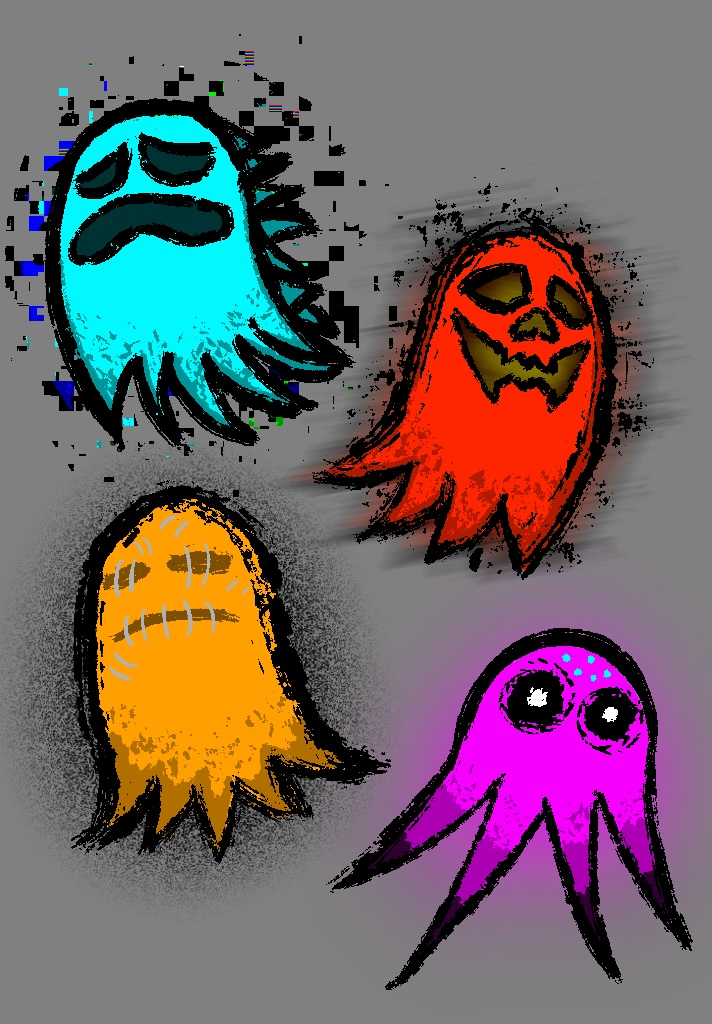
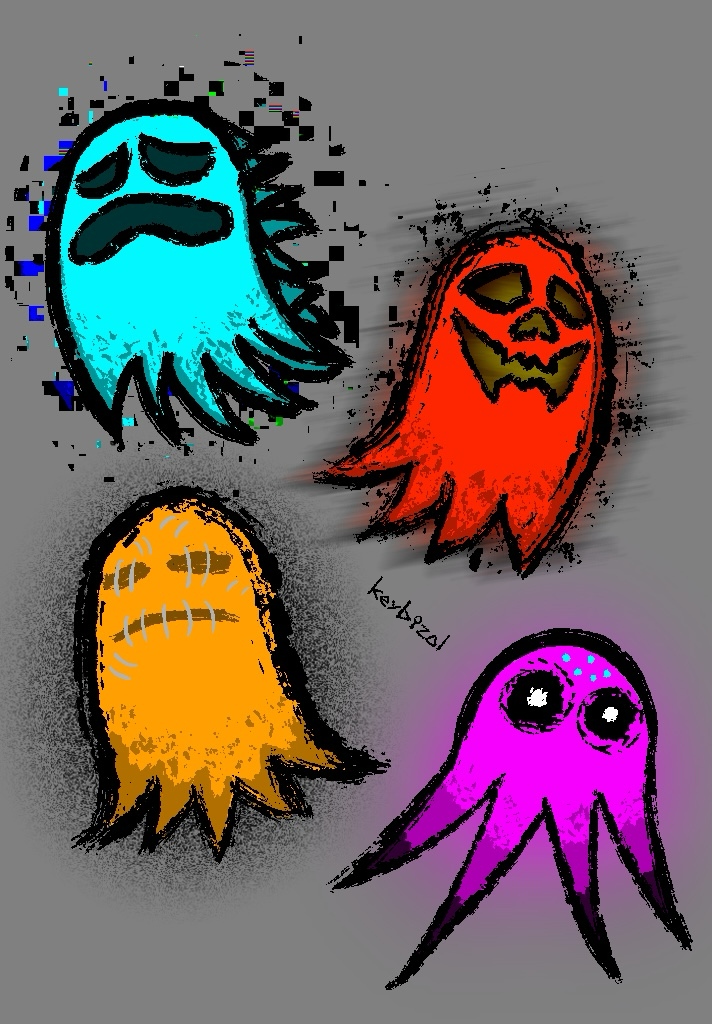
new blog post, more art, added art signatures

diff --git a/public/blog.html b/public/blog.html
@@ -54,7 +54,7 @@
                         <a href="#5">3/13/2026 - 20XX: a music odyssey</a><br>
                         <a href="#6.5">4/4/2026 - the blog that never existed</a><br>
                         <a href="#7">5/9/2026 - calculus struggles II</a><br>
-                        <a href="#8" style="color: gray;">?/??/2026 - ?</a><br>
+                        <a href="#8">8/8/2026 - drifting through summer</a><br>
                         <br>
                     </section>
 
@@ -742,9 +742,89 @@
                     <p><i>side note regarding final exams: <a href="https://en.wikipedia.org/wiki/2026_Canvas_security_incident">"something"</a> got hacked lol but my exam's weren't on any affected days..... not like it matters if you know what i mean.....</i></p>
                 </div>
                 <div id="8">
-                    <h1>?</h1>
-                    <h3>?</h3>
-                    <p>?</p>
+                    <h1>drifting through summer</h1>
+                    <br>
+                    <img src="blog_pictures/8_1_again.jpg" alt="again? (from coronation day mario rom hack)">
+                    <br>
+                    <p>Two years have passed ever since I started college. As of writing, <i>I have never worked a single job</i> in my life. Sure, I applied to jobs, but I wasn't heavily pushed to apply. Therefore, when I was denied, it was no big deal since I have a good roof and a good family. Something I know that others don't have as much and I think about this a lot. As a result, I have no work experience and I am nearly fucked in that regard, lacking in skills needed to progress further. I chose this path for two years. Whether it was a good idea or not or if I even had a choice (college gets tough + work) is besides the point. I'm worried that I haven't done anything good, meaningful, or worthwhile the entire summer. I'm just living with my parents, dwelling in my mind, and doing whatever I feel like doing if anything.</p>
+                    <br>
+                    <p><b>So what have I been doing?</b></p>
+                    <br>
+                    <h3>chores & family (guy funny) moments</h3>
+                    <p>Now I can only write/share so much about family until it crosses the line of internet safety and anonymity so I'll keep this paragraph brief. After my successful 2nd year in college, I came back home tired (I do not live near the city my college is in). My small efforts to find a job were unsuccessful. I would get requested for interviews while still in college, far away, and studying for finals. It was at that moment that my family was ok not having a summer job because of many upcoming appointments, important family gatherings, and other things. So of course I took that opportunity and was gifted the curse of unemployment and the blessing of free time.</p>
+                    <br>
+                    <p>But my parents have standards and raised me the best they could. I was allowed to be jobless under conditions that I would do anything asked of me (whole lotta chores being the obvious).</p>
+                    <br>
+                    <p>Once the summer started to set in, every day started feeling the same. I was slowly getting bored, I wasn't motivated, I couldn't focus, I would forget what I was thinking in the next second, I was still anxious all the time, etcetera etcetera. <i>It won't be until later where I revisit this.</i></p>
+                    <br>
+                    <p>Every morning I'd wake up tired, find another successful bingo on my Fox News bingo card, and then follow a spotaneous and random schedule decided in the moment for that day. If it's decided it was time to get more groceries, thats what happened. Alone in the house, take care of the dogs all day. Hasn't rained at all, time to water the plants. Lunchtime? Get food for the family. Maybe you get it, maybe you don't, but it really wasn't that bad as it should. Maybe some would kill for it. Still, I was tired and bored everyday, it'd be afternoon or evening and I would contemplate life, my choices, myself, and get sad.</p>
+                    <br>
+                    <p>Nonetheless, I wasn't completely bored though. People came over sometimes to hang and then I'd remember it's a "summer break" and I am supposed to "relax". A couple of things were occuring the beginning of June that kept me going. Not everything is listed here and not "everything" I've done is talked about.</p>
+                    <br>
+                    <ul>
+                        <li>I was asked if I wanted to play guitar again.</li>
+                        <li>The World Cup was starting soon.</li>
+                        <li>Deltarune Chapter 5 was coming out.</li>
+                        <li>The Backrooms movie was coming out (it'll make sense later).</li>
+                        <li>Happy (and sad) family events.</li>
+                        <li>Too many doctor appointments.</li>
+                    </ul>
+                    <br>
+                    <p>I might have been depressed before that but soon I would find peace in my hobbies as I finally garner the time and motivation. This was around the time of the Fifa World Cup happening. Realistically, soccer isn't that popular here but for some reason, my family loves to keep up with it and watch all the games. And so did I, it gave me something to pay attention to after completing Deltarune Chapter 5 in two days. I went through that so fast I felt nothing (well.... considering "weird route", i would be lying). Anyways, I noticed there was lots of AI used in the commercials and it always left a feeling of dread on me when I see it. Reminds me of that time where I went to go help hang up some stuff at another house and I noticed upon closer inspection it was AI art..... I'm drifting off the topic so uhhhhhh.</p>
+                    <br>
+                    <h3>the guitar calls back to me like the green goblin</h3>
+                    <p>Did you see the list? The first one. About eight years ago I think, In my parents effort to find hobbies and things I like outside of school (extra-curricular is the fancy word), I would learn guitar with one of my dad's old friend. Eventually, I would lose interest and somehow convince my parents that I was quitting (I've quit a lot of things). Looking back, I know that I had no profound interest in music (way before the events of the music blog post). NOTHING. Why would I care. But there was one important outcome, I learned the basics quicker that others. He told me that. They all told me that.</p>
+                    <br>
+                    <img src="blog_pictures/8_5_greengoblin.gif" alt="green goblin">
+                    <br>
+                    <p>Jump back to the present and I respond with a slightly not so confident "sure why not". It was once a week and it was only an hour. Amazingly, I was able to pick up back where I left off in a week or two. My guitar mentor (calling him M from now on) was genuinely surprised and it wouldn't be the first or last time. M knew I had lots of time to practice and told me from the start that you can't improve unless you practice and try. You bet your ass I was playing that shit until my fingers were peeling.</p>
+                    <br>
+                    <p>The first few songs weren't too bad and I would take home the sheets and try to play every single one every day. Eventually I got to a point where I would seek other songs to try and play, something I would have never thought or tried to do when I was younger playing guitar, where I was just there to learn and get out. If you saw my music blog post, you know how much music I have seen so far. At that time, I was finding songs in my range that I could actually play and weren't too hard. It seemed to me like some Ween songs were a good starting point. So after I played the songs I were given, I would try to play other songs I found (some unsuccessful, some easier the next time around).</p>
+                    <br>
+                    <p>I would continue doing that until it was clear that I was blowing all the easy stuff out of the water. I told M what I had been doing and he applauded me for it, he like that I was experimenting and trying new things. He then asked me to send some of the tabulature I've found and been playing. From that point forward, I was learning fast and playing many songs, some way out of my comfort zone but somehow found a way to manage. He is worried I might surpass him lol.</p>
+                    <br>
+                    <p>Of course, all of this happened in the span of the entire summer, a short amount of time. I don't have really anything else to say on this other than I am pretty good at playing the guitar, still learning but well past the beginner stage. Unfortuantely, I can't really show that off on my website because I don't know how to (without coughing up some cash for neocities). If you are curious, the songs M would have me pay range from <a href="https://www.youtube.com/watch?v=AeZRYhLDLeU">"Folsom Prison Blues"</a> to <a href="https://www.youtube.com/watch?v=mrF4nF8VUb4">"Margaritaville"</a> to <a href="https://www.youtube.com/watch?v=1vrEljMfXYo">"Take Me Home, Country Roads"</a> to <a href="https://www.youtube.com/watch?v=4gibSb1_GGw">"Sister Golden Hair"</a>. My song choices would range from <a href="https://www.youtube.com/watch?v=n5h0qHwNrHk">"Fake Plastic Trees"</a> to <a href="https://www.youtube.com/watch?v=jGSI9qoNjYk">"Mutilated Lips"</a> to <a href="https://www.youtube.com/watch?v=ImKY6TZEyrI">"Fade Into You"</a> to <a href="https://www.youtube.com/watch?v=u6-_eXmsGXg">"Holy Fucking Shit: 40,000"</a>. Some songs I choose I play alone. Okay now I want to talk about that Backrooms movie except not really.</p>
+                    <br>
+                    <h3>"this is not for you"</h3>
+                    <p>Backrooms was a good movie, lots to talk about with others. Honestly, what I'm going to talk about has little to do with the backrooms and more in line with what it remined me of, a book I haven't read until now <a href="https://en.wikipedia.org/wiki/House_of_Leaves">"<i style="color:blue">House</i> of Leaves"</a>. When I watched the backrooms movie, I have only heard of the book and never read it. Then one night, I decided that I was going to try it out. I haven't read anything in a while and the bible isn't a novel so really I haven't read a novel in a long ass time so when I told my dad about this, he was really happy about and bought the book for me in hopes that I would read again.</p>
+                    <br>
+                    <p>I was hesitant on picking this book up in particular though because of its very unconventional structure of storytelling. It was also very long and I have a long history of struggling with reading (especially with ADHD). Without saying too much, I will show you two pages to showcase what I mean.</p>
+                    <br>
+                    <img src="blog_pictures/8_2_houseofleaves.jpg" alt="two pages in house of leaves">
+                    <br>
+                    <p>No worries, the entire book <i>does not</i> look like this one image, only parts of it. However, there are some heavy vocabulary words, topics that are related and unrelated to the main subject, three narrators are talking, and reading is similar to something like a scavenger hunt. Nonetheless all the struggles, I was hooked somehow reading it. Maybe it was all the puzzles and gimmicks. Maybe it was all the underlying themes and messages. Maybe it was the story about the <i style="color:blue">house</i>. I'm not enitrely sure but I seemed to like it and wanted to keep reading and find other similar stores like it.</p>
+                    <br>
+                    <p>Right now I am reading <a href="https://en.wikipedia.org/wiki/There_Is_No_Antimemetics_Division">"There Is No Antimemetics Division"</a>, and... well... it starts out pretty strong and then the second half kills my interest and I'm still reading it even though it's shorter than <i style="color:blue">House</i> of Leaves. Maybe I might go back to <a href="https://www.youtube.com/watch?v=rZvGfsDzTfU">The Bible</a> just to get all that information no typical christian knows or cares to read about. You might be wondering, does this mean in christian though? That's complicated for me. I grew up catholic and, in my teen years, questioned the words of god and if he even was real. Today, I don't think the church would like me.... I'm going off-topic again.</p>
+                    <br>
+                    <p>Okay away from that last thing. Before I talk about my recent art adventures, all I want to say is that I have been keep up with specific webcomics, even though I wasn't a huge graphic novel reader during my teen years.... as for webcomics? uhhhh *turns around to see a <a href="https://homestuck.com/"><i style="color:green">house</i></a>* yeah lets not talk about that. So today, I keep my eyes on the following three: <a href="https://normalsville.the-comic.org/comics/1/#content-start">"Normalsville"</a>, <a href="https://www.webtoons.com/en/canvas/doghaus-/list?title_no=853933">"Doghaus"</a> (not the restaurant?), and finally <a href="https://www.boggio.net/reader/ditf">"Death In The Family"</a>. What? "Never heard of these?" good, let's keep it that way. I won't say too much on these but you can go check em out if you care/dare. The first one holds similarities to early Family Guy; the second one holds similarities to Peanuts; both the first and second one are gay furry slice of life webcomics; and the third one is based off a roblox game.</p>
+                    <br>
+                    <h3>procreation sensations</h3>
+                    <p>Out of all the things I wanted to do the most this summer was to draw. But very often, do I have the motivation to do it. Sometimes I have nothing in my head that I want or sometimes I'm scared of it. Scared about it not coming out right or it's stupidly embarrasing to me. The anxiety takes over and I have nothing for hours. That was until something was able to suppress the anxiety and increase my focus for a few hours (talked about next section). Now since that, I was able to make lots of art (good and bad) on my iPad in Procreate.</p>
+                    <br>
+                    <p>Before I had Procreate, I would use Krita, and before that was my sketchbook, and farther back was older and shittier art I don't want to talk about. I don't like the feel of drawing tablets and it took me a while to get used to it and the stuff that came from it wasn't great. I also replaced the tips very regularly and it was annoying. I did the best I though I could with Krita. At some point in Summer 2025, I got hand on an old iPad mini (6th gen?) and used it for college to survive Calculus II. Then one day, I decided to waste some cash on Procreate and draw like barely anything. When I finally got a much better iPad (not mini), I sought out to learn the tools in Procreate and just redesign my ocs again the best I could during Winter 2026 (also draw dumb shit too). That period was really trying to go from my sketchbook to Procreate instead of Krita to Procreate. I would always use a simple, fine pen brush for line art and literally everything. Never would I try to change the brush alot or use anything else to make my art look cooler.</p>
+                    <br>
+                    <p>Fast forward to the summer and now I feel like I want to try drawing again but I can't get myself too. That was until I sought more experimentation with the tools. Then I found my new favorite brush inside Procreate's wonderful garden of brushes. the Styx brush.</p>
+                    <br>
+                    <img src="blog_pictures/8_3_styx.jpg" alt="styx brush in procreate">
+                    <br>
+                    <p>Of course I would modify it a little bit since it wasn't easy to draw a closed line with it. So I use two versions of the brush to make all my latest work in Procreate. It amazing how deceptively easy and simple it is to use Procreate it's kinda crazy. My iPad makes it so much easier to make art than in Krita and that's awesome and sad in a conglomerate of ways that I don't want to get into. Anyways here's a timelapse. Unfortunately, I couldn't get any other ones in gif form. For this artwork, I hadn't used vanishing points or made a background in the longest time so ths was a little outside my confort zone. I had only been drawing humanoids. On this same Procreate project file I also did the Animal Hospital one but it's cropped out so you won't see it, and I did both in one day so that's nice.</p>
+                    <br>
+                    <img src="blog_pictures/8_4_wishyouwouldproceedtimelapse.gif" alt="timelapse">
+                    <br>
+                    <img src="artstuff/procreate/wishyouwouldproceed.png" alt="timelapse">
+                    <br>
+                    <p>So after getting comfortable with a new brush and Procreate's tools, I was able to draw semi-consistently (like at least a drawing every other day). You can see most of it now but like more than 50% of it was oc art and I am not comfortable sharing all of that. Anyways, something else also made it easier for me to make art and some other things too: <i>ADHD Medication</i>.</p>
+                    <br>
+                    <h3>before returning to college</h3>
+                    <p>You see, I have been rawdogging ADHD even since the elementary years. This was because I was an A student in school so there was nothing to worry about. When I was younger, I was diagnosed with ADHD and put on Vyvanse (it just came out and the doctors had incentives). Long story short, the effects were terrible and no one said to me or my parents that you can try other medication. So fast forward to college and now the realization is that ADHD is setting me back academically and socially. It was then I realized at some point that I remembered there was medication for ADHD and different options so I wanted to try again.</p>
+                    <br>
+                    <p>Now put on something else other than Vyvanse, the anxiety was (nearly) gone and I was able to focus and retain memory. The results were shown in conversations, in my art, and while reading. What I have yet to see is how it effects college but I am more hopeful than ever. I'm less anxious throughout the day, I don't wander around the depth of my mind like I used to, and I sleep better and dream more.</p>
+                    <br>
+                    <p><b>All of this to still say I'm jobless. <i style="color:black">but i'm still a student</i></b></p>
+                    <br>
+                    <p>I may have taken my absurd about of free time at 21 for granted, but at least I had it and did as much as I could with it. With family, with friends, with me. The present is dull. The future is bright.</p>
+                    <br>
+                    <p>See you later.</p>
                 </div>
                 <br>
                 <hr>

diff --git a/public/projects.html b/public/projects.html
@@ -318,7 +318,7 @@
 
           <div class="grid-item">
             <a href="artstuff/krobus.png" target="_blank" rel="noopener noreferrer">
-              <img src="artstuff/krobus.png">
+              <img class="top" src="artstuff/krobus.png">
             </a>
           </div>
 
@@ -336,31 +336,31 @@
 
           <div class="grid-item">
             <a href="artstuff/thesiren.png" target="_blank" rel="noopener noreferrer">
-              <img src="artstuff/thesiren.png">
+              <img class="top" src="artstuff/thesiren.png">
             </a>
           </div>
 
           <div class="grid-item">
             <a href="artstuff/nepeta.png" target="_blank" rel="noopener noreferrer">
-              <img src="artstuff/nepeta.png">
+              <img class="top" src="artstuff/nepeta.png">
             </a>
           </div>
 
           <div class="grid-item">
             <a href="artstuff/baldi.png" target="_blank" rel="noopener noreferrer">
-              <img id="baldi" src="artstuff/baldi.png">
+              <img class="contain" src="artstuff/baldi.png">
             </a>
           </div>
           
           <div class="grid-item">
             <a href="artstuff/dud.png" target="_blank" rel="noopener noreferrer">
-              <img src="artstuff/dud.png">
+              <img class="top" src="artstuff/dud.png">
             </a>
           </div>
 
           <div class="grid-item">
             <a href="artstuff/starwalker.png" target="_blank" rel="noopener noreferrer">
-              <img src="artstuff/starwalker.png">
+              <img class="right" src="artstuff/starwalker.png">
             </a>
           </div>
 
@@ -408,7 +408,7 @@
 
           <div class="grid-item">
             <a href="artstuff/lw3.png" target="_blank" rel="noopener noreferrer">
-              <img id="lw3" src="artstuff/lw3.png">
+              <img class="top"  src="artstuff/lw3.png">
             </a>
           </div>
 
@@ -633,7 +633,19 @@
 
           <div class="grid-item">
             <a href="artstuff/procreate/trollmonocle.png" target="_blank" rel="noopener noreferrer">
-              <img src="artstuff/procreate/trollmonocle.png">
+              <img class="top" src="artstuff/procreate/trollmonocle.png">
+            </a>
+          </div>
+
+          <div class="grid-item">
+            <a href="artstuff/procreate/oc_4.png" target="_blank" rel="noopener noreferrer">
+              <img class="top" src="artstuff/procreate/oc_4.png">
+            </a>
+          </div>
+
+          <div class="grid-item">
+            <a href="artstuff/procreate/oc_5.png" target="_blank" rel="noopener noreferrer">
+              <img class="top" src="artstuff/procreate/oc_5.png">
             </a>
           </div>
 
@@ -704,14 +716,62 @@
           </div>
 
           <div class="grid-item">
-            <a>
-              <img src="">
+            <a href="artstuff/procreate/gf3.png" target="_blank" rel="noopener noreferrer">
+              <img src="artstuff/procreate/gf3.png">
             </a>
           </div>
 
           <div class="grid-item">
-            <a>
-              <img src="">
+            <a href="artstuff/procreate/bive3.png" target="_blank" rel="noopener noreferrer">
+              <img src="artstuff/procreate/bive3.png">
+            </a>
+          </div>
+
+          <div class="grid-item">
+            <a href="artstuff/procreate/notverity.png" target="_blank" rel="noopener noreferrer">
+              <img src="artstuff/procreate/notverity.png">
+            </a>
+          </div>
+
+          <div class="grid-item">
+            <a href="artstuff/procreate/thesiren2.png" target="_blank" rel="noopener noreferrer">
+              <img src="artstuff/procreate/thesiren2.png">
+            </a>
+          </div>
+
+          <div class="grid-item">
+            <a href="artstuff/procreate/whiteface2.png" target="_blank" rel="noopener noreferrer">
+              <img src="artstuff/procreate/whiteface2.png">
+            </a>
+          </div>
+
+          <div class="grid-item">
+            <a href="artstuff/procreate/wishyouwouldproceed.png" target="_blank" rel="noopener noreferrer">
+              <img src="artstuff/procreate/wishyouwouldproceed.png">
+            </a>
+          </div>
+
+          <div class="grid-item">
+            <a href="artstuff/procreate/filthyanimal.png" target="_blank" rel="noopener noreferrer">
+              <img src="artstuff/procreate/filthyanimal.png">
+            </a>
+          </div>
+
+          <div class="grid-item">
+            <a href="artstuff/procreate/nothingleftforthelostwizard_aka_oc_1.png" target="_blank" rel="noopener noreferrer">
+              <img class="right" src="artstuff/procreate/nothingleftforthelostwizard_aka_oc_1.png">
+            </a>
+          </div>
+
+          <div class="grid-item">
+            <a href="artstuff/procreate/theytookeverythingfromme.png" target="_blank" rel="noopener noreferrer">
+              <img src="artstuff/procreate/theytookeverythingfromme.png">
+            </a>
+          </div>
+
+          <div class="grid-item">
+            <a href="artstuff/procreate/nfthomerbiditoilets_watermarkedtodeath.png" target="_blank" rel="noopener noreferrer">
+              <img src="artstuff/procreate/nfthomerbiditoilets.png">
             </a>
           </div>
 
@@ -722,10 +782,9 @@
           </div>
         
         </div>
-        <h5>last updated: 7/2/26 (decided to add <i>some</i> stuff, haven't had a lot of motivation though, been doing other things)</h5>
+        <h5>last updated: 8/8/26 - added some more cool stuff (some are jokes), gave up arguing with myself and i am sharing two ocs that i had drawn january</h5>
         <br>
-        <h5>note: 7/30/26 (been having endless debates on whether I show my ocs or not and it looks like a stalemate)</h5>
-        <br>
+        <h5>more art soon</h5>
       </section>
 
       <section id="legacy">

diff --git a/public/index.html b/public/index.html
@@ -27,7 +27,7 @@
         You are Visitor #: <script type="text/javascript" src="https://counter.websiteout.com/js/8/6/0/1"></script>
         <br>
         <br>
-        Last Updated: 7/30/26
+        Last Updated: 8/8/26
         <br>
         <br>
         <!--My last.fm Status:
@@ -50,7 +50,7 @@
         <button id="toTakeTheDead" class="homeButton" onclick="toTakeTheDead()">evil button</button>
       </div>
       <aside class=" rightSidebar">
-          <h3 style="color: #A9C5A0;">silly stuff</h3>
+          <h3 style="color: #A9C5A0;">info</h3>
           content warning: swears & sensitive subjects
           <br>
           <br>

diff --git a/public/projects.css b/public/projects.css
@@ -53,13 +53,22 @@
   max-height: 200px;
 }
 
-.grid-item #lw3 {
+img.fill {
   object-fit: fill;
 }
 
-.grid-item #baldi {
-  object-fit: fill;
+img.contain {
+  object-fit: contain;
 }
+
+img.top {
+  object-position: top;
+}
+
+img.right {
+  object-position: right;
+}
+
 
 section {
   width: 1200px !important;

diff --git a/public/blog.css b/public/blog.css
@@ -131,6 +131,10 @@ img {
   margin-bottom: 20px;
 }
 
+ul {
+  padding-left: 30px;
+}
+
 @media only screen and (max-width: 900px) {
 
   html {
